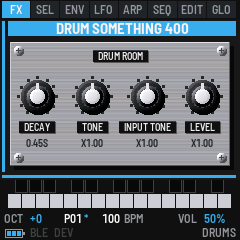
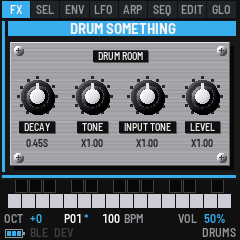
The drums' FX plates titled DRUM SOMETHING; the manual's and site's openings show all four HOMEs (piano and echo shots in screens.txt)

Changed region(s): [[0.2333, 0.0875, 0.7875, 0.1458]]

diff --git a/app.c b/app.c
@@ -6200,7 +6200,7 @@ static void droom_draw(void)
 {
     uint32_t i;
     char t[12];
-    plate("DRUM SOMETHING 400");
+    plate("DRUM SOMETHING");
     dymo(120, 30, "DRUM ROOM", RGB(235, 235, 235));
     for (i = 0; i < 4u; i++) {
         const int32_t cx = 10 + 220 * (2 * (int32_t)i + 1) / 8;
@@ -8227,7 +8227,7 @@ static void dpinfo_draw(void)
 {
     const dq_pat_t *p = &dqm.pat[ui.dt_pat < DQ_NPAT ? ui.dt_pat : 0];
     char t[14], n[6];
-    plate("DRUM SOMETHING 400");
+    plate("DRUM SOMETHING");
     dymo(120, 30, "PATTERN INFO", RGB(235, 235, 235));
     t[0] = 0;
     int_text(ui.dt_pat, t);
@@ -8261,7 +8261,7 @@ static void dsinfo_draw(void)
     const int32_t from = at > 2 ? at - 2 : 0;
     char w[8], n[6];
     int32_t i;
-    plate("DRUM SOMETHING 400");
+    plate("DRUM SOMETHING");
     dymo(120, 30, "SONG INFO", RGB(235, 235, 235));
     w[0] = 0;
     text_cat(w, "SONG ");
@@ -8347,7 +8347,7 @@ static void home_back(void)
 /* DRUM MODS: what the 400 hasn't, on a plate as the synth's mods (one so far) */
 static void dmod_draw(void)
 {
-    plate("DRUM SOMETHING 400");
+    plate("DRUM SOMETHING");
     dymo(120, 30, "DRUM MODS", RGB(235, 235, 235));
     bs2_knob(70, 76, 20, set.dswing_lock != 0u, 1, KF_PLATE | (knob_lit(EN_K3) ? KF_LIT : 0u));
     tag(70, 76, EN_K3);

diff --git a/site/landing.md b/site/landing.md
@@ -7,10 +7,14 @@ MIDI comes in over USB, Bluetooth and TRS, and goes out over USB and Bluetooth. 
 seed slots with their locks, and a mixer for its four tracks.
 
 A second instrument plays beside the synth: Drum Something 400, a drum machine inspired by the Sequential Circuits
-Drumtraks, with 13 synthesized drums, patterns, songs and MIDI out.
+Drumtraks, with 13 synthesized drums, patterns, songs and MIDI out. A third, Piano Something 368X, is an electric piano
+inspired by the RMI Electra-piano 368X, with its own sequenced part on each drum pattern. Space Something 201 is a tape
+echo and spring reverb inspired by the Roland RE-201, and all three instruments can send into it.
 
 ![Bass Something 2's HOME page with a note playing: the BASS SOMETHING 2 name, the red P01 display, the scope drawing the wave, and the whole Bass Station II panel above the keys](manual/img/screen-home.png "Bass Something 2 on the FM-1's screen")
 ![Drum Something 400's HOME page: the panel, with two red displays above the keypad and the drums' buttons along the bottom](manual/img/screen-drum-home.png "Drum Something 400 on the FM-1's screen")
+![Piano Something 368X's HOME page: its name, the tone toggle that's on, and the RMI Electra-piano's front panel above the keys](manual/img/screen-piano-home.png "Piano Something 368X on the FM-1's screen")
+![Space Something 201's HOME page: its name and mode above the whole RE-201 front panel, the keys under it](manual/img/screen-echo-home.png "Space Something 201 on the FM-1's screen")
 
 Version {{VERSION}}. Installing is at your own risk; the installer can put M-VAVE's own firmware back.
 

diff --git a/docs/MANUAL.md b/docs/MANUAL.md
@@ -14,6 +14,8 @@ A second instrument plays beside the synth: [Drum Something 400](#s6), 13 drums 
 
 ![The Bass Something 2 screen with a note playing: the section tabs, the HOME page (the name, the red P01 display, the scope drawing the note's wave, the whole Bass Station II panel), the keys with the held one in cyan, then OCT +0, P01, 120 BPM, VOL 50% and ARP OFF](img/screen-home.png "Bass Something 2 playing")
 ![Drum Something 400's HOME page: the panel, with two red displays above the keypad and the drums' buttons along the bottom](img/screen-drum-home.png "Drum Something 400")
+![Piano Something 368X's HOME page: its name, the tone toggle that's on, and the RMI Electra-piano's front panel above the keys](img/screen-piano-home.png "Piano Something 368X")
+![Space Something 201's HOME page: its name and mode above the whole RE-201 front panel, the keys under it](img/screen-echo-home.png "Space Something 201")
 
 ---
 
